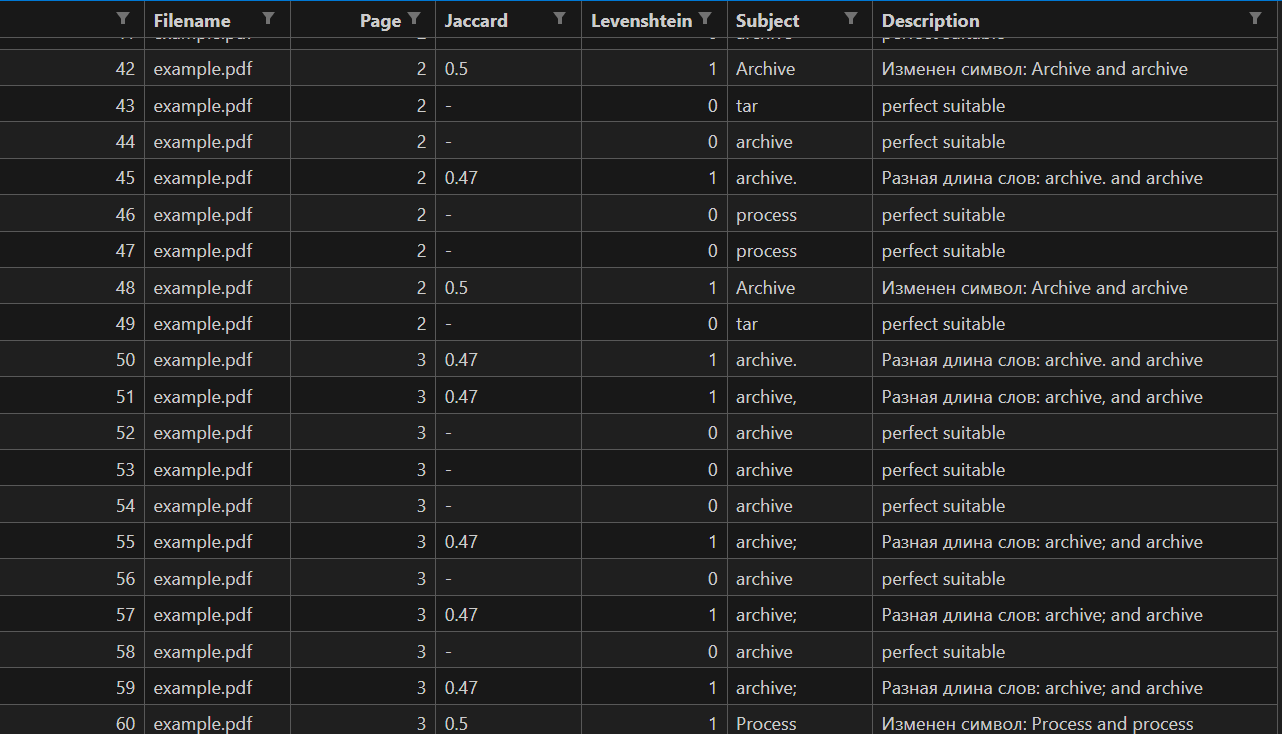
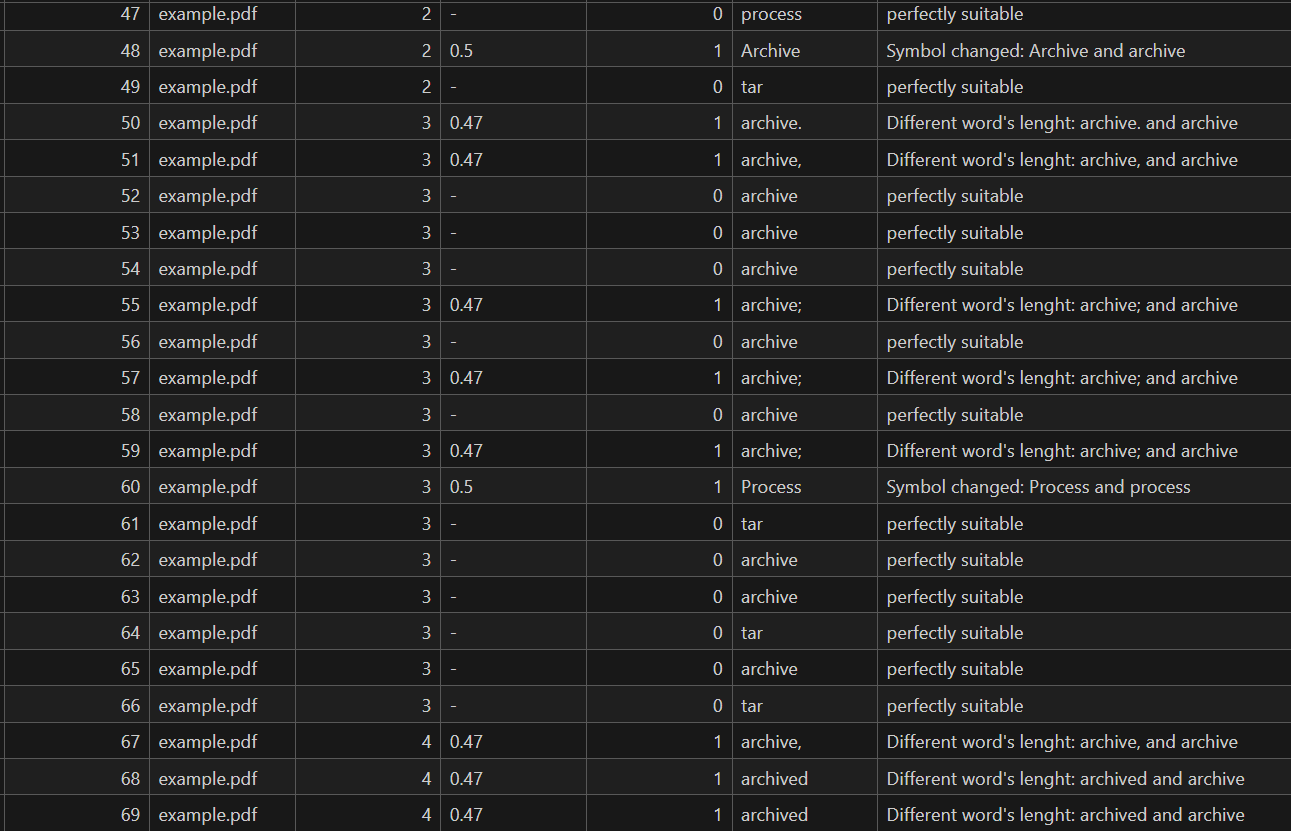
md redact

diff --git a/analyze.py b/analyze.py
@@ -43,8 +43,8 @@ def analyze_file(name, phrase, lev_rate, mask_threshold, target_directory):
                     dist = lev(word,word2)/len_w
                     
                     if dist < lev_rate:
-                        if len(word) == len(word2): descr = 'Изменен символ: ' + word + ' and ' + word2
-                        else: descr = 'Разная длина слов: ' + word + ' and ' + word2
+                        if len(word) == len(word2): descr = 'Symbol changed: ' + word + ' and ' + word2
+                        else: descr = "Different word's lenght: " + word + ' and ' + word2
                         
                         info.append({'filename': name.split('/')[-1], 
                                      'page': page_count, 

diff --git a/README.md b/README.md
@@ -46,17 +46,16 @@ row_rate = levenstain(word_1,word_2)/lenght_row_word
 
 Булевый параметр - делать ли отчет по файлу в виде таблицы
 
-```python
-python main.py "process include folder" --indir data --mask_thres 0 --rate 0.2 --is_make_csv True
-```
+
 
 ### Пример использования
 
 ```python
-python main.py "archive tar process"
+python main.py "archive tar process" --indir data --mask_thres 0 --rate 0.2 --is_make_csv True
 ```
-Пример оформеления в файле
+
+_pdf_
 ![example_pdf](https://github.com/cradmlozzer/Digital-breakthrough/assets/108126763/43dc29c1-4d2d-462d-9e5e-6ccac54b4dea)
 
-Пример оформление в таблице
-![example_table](https://github.com/cradmlozzer/Digital-breakthrough/assets/108126763/90fa1597-a725-46f9-b137-f47eb6929956)
+_csv_
+![example_table](https://github.com/cradmlozzer/Digital-breakthrough/assets/108126763/d0c6a93e-f840-45bb-b566-a4fab7189926)
